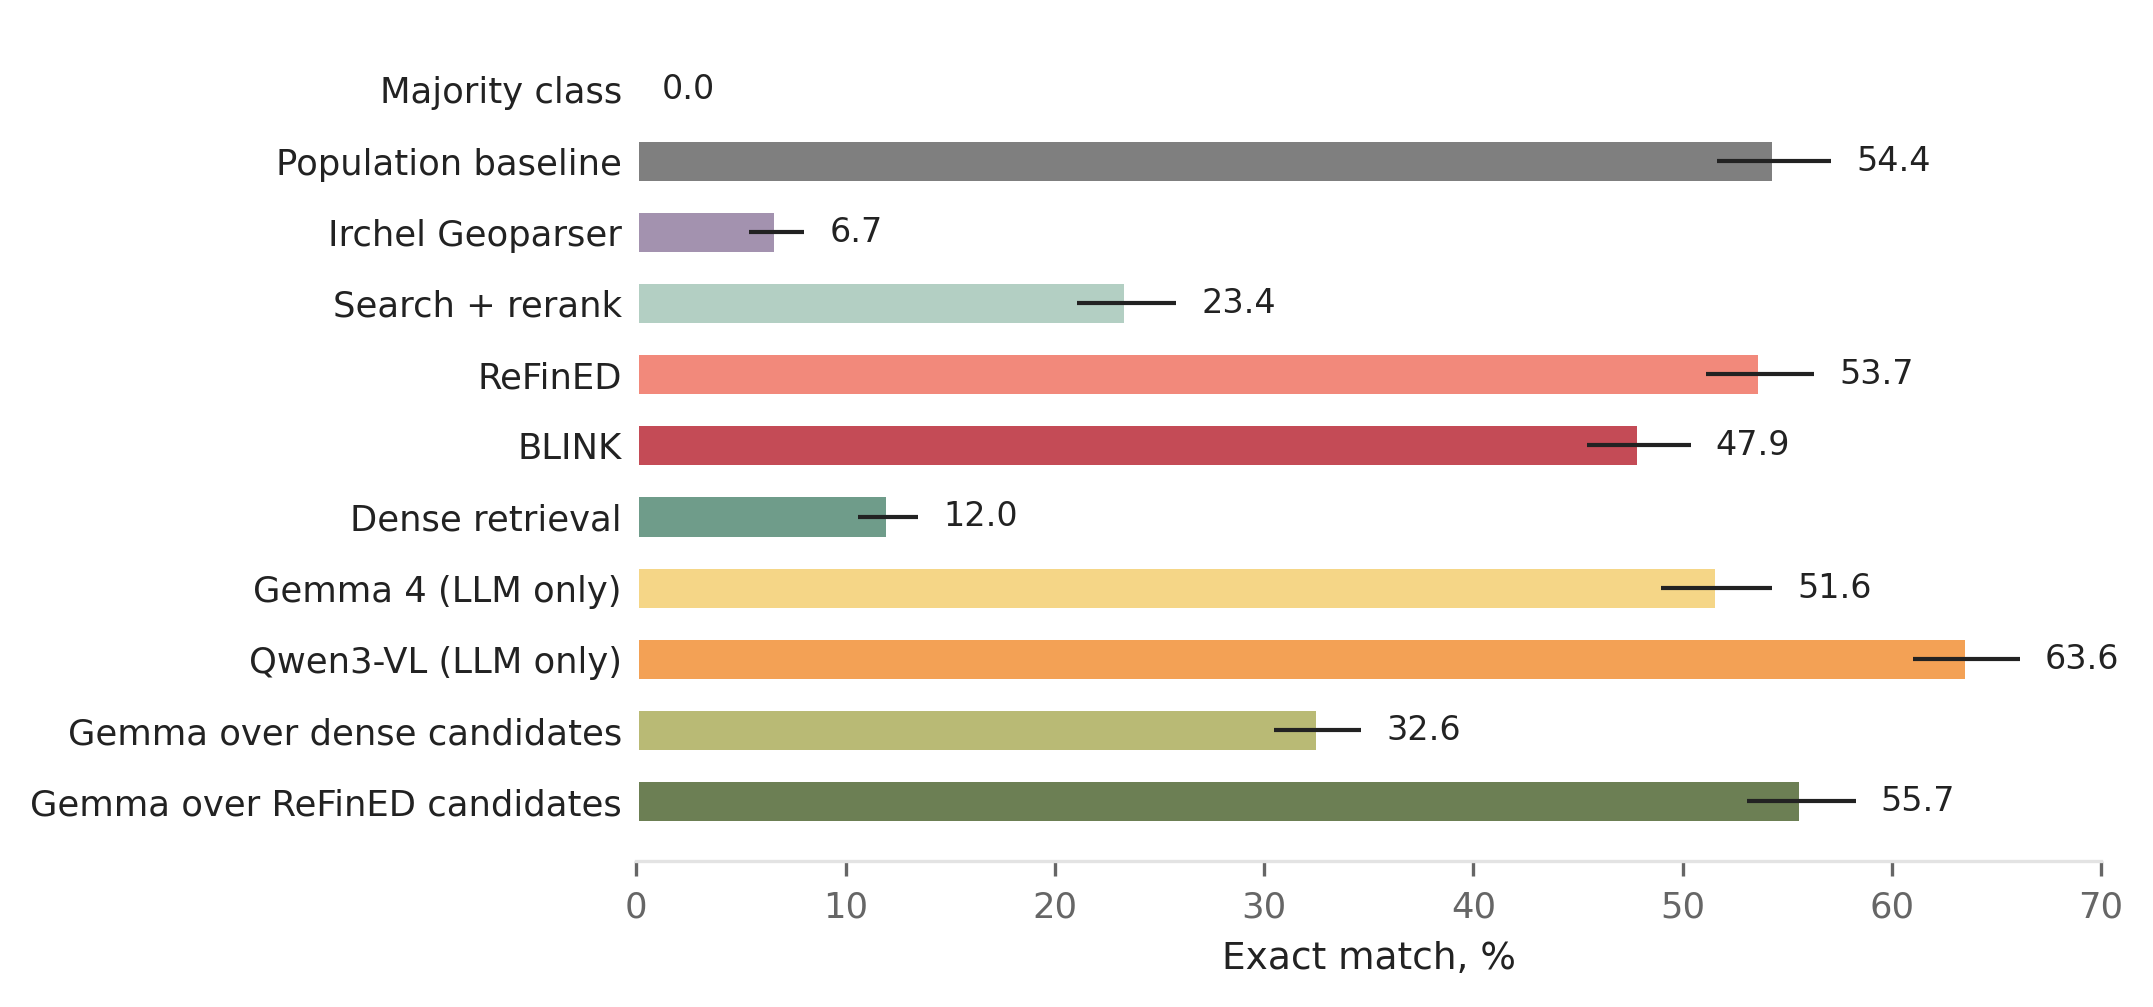
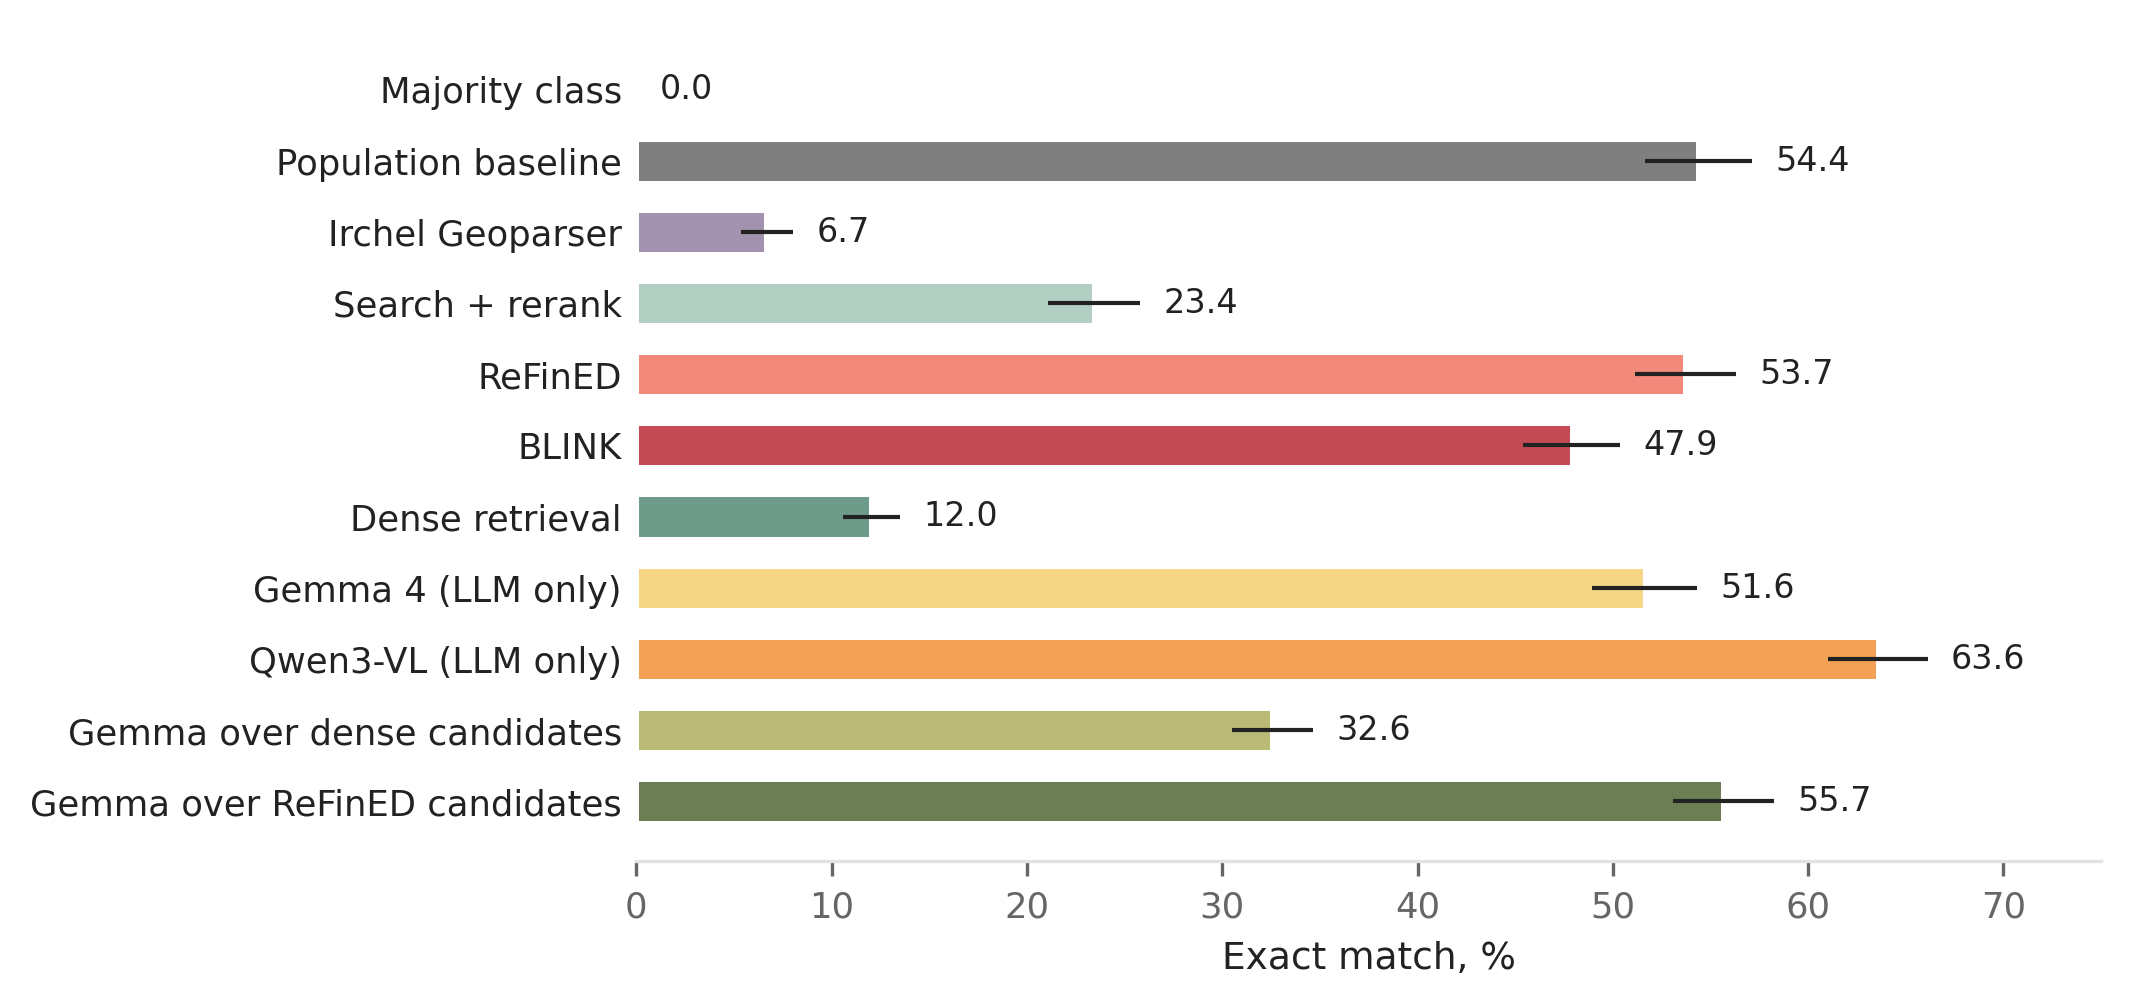
Widen figure axes and fix label overlaps; regenerate figures

diff --git a/scripts/plot_results.py b/scripts/plot_results.py
@@ -208,7 +208,7 @@ def fig_overall(split: str, out: Path) -> None:
         ax.barh(i, v, height=BAR_HEIGHT, color=COLOUR[name], edgecolor="white", linewidth=1.2)
         ax.plot([lo, hi], [i, i], color=INK, linewidth=1, solid_capstyle="butt")
         ax.text(max(hi, v) + 1.2, i, f"{v:.1f}", va="center", fontsize=8)
-    bar_axes(ax, [LABEL[n] for n in names], "Exact match, %", xmax=70)
+    bar_axes(ax, [LABEL[n] for n in names], "Exact match, %", xmax=75)
     save(fig, out, "fig1_overall")
 
 
@@ -260,7 +260,7 @@ def fig_noise(scored: dict, out: Path) -> None:
         ax.set_xticks(range(3), ["none", "demonym", "entity"])
         ax.set_xlabel("Distractor")
         ax.set_xlim(-0.25, 2.25)
-        ax.set_ylim(0, 85)
+        ax.set_ylim(0, 100)
         ax.grid(axis="y")
         ax.tick_params(axis="x", length=0, colors=INK)
     axes[0].set_ylabel("Exact match, %")
@@ -363,9 +363,9 @@ def fig_answer_precision(scored: dict, out: Path) -> None:
         xs = [x / 2 for x in range(2 * level, 201)]
         ax.plot(xs, [100 * level / x for x in xs], color=GRID, linewidth=0.8, zorder=1)
         ax.text(102.6, level, f"{level}", fontsize=7, color=MUTED, va="center")
-    ax.text(102.6, 72, "exact\nmatch, %", fontsize=7, color=MUTED, va="center")
+    ax.text(102.6, 76, "exact\nmatch, %", fontsize=7, color=MUTED, va="center")
     nudge = {"refined": (-1.4, 1.6, "right"), "blink": (0, 3.2, "center"),
-             "grounded_gemma_linking": (-1.4, 0, "right"), "population_wikidata": (-1.4, 0, "right"),
+             "grounded_gemma_linking": (-1.4, 2.4, "right"), "population_wikidata": (-1.4, -2.6, "right"),
              "gemma4": (-1.4, -1.8, "right"), "qwen3_vl": (-2.0, 3.2, "center"),
              "retrieve_rerank": (-1.4, 0, "right"), "dense_retrieval": (-1.4, 0, "right")}
     for name in names:
@@ -378,7 +378,7 @@ def fig_answer_precision(scored: dict, out: Path) -> None:
         dx, dy, ha = nudge.get(name, (1.4, 0, "left"))
         ax.text(rate + dx, precision + dy, LABEL[name], fontsize=8, va="center", ha=ha, zorder=4)
     ax.set_xlim(20, 102)
-    ax.set_ylim(0, 75)
+    ax.set_ylim(0, 80)
     ax.set_xlabel("Test posts answered, %")
     ax.set_ylabel("Exact match among answered posts, %")
     save(fig, out, "fig7_answer_precision")
